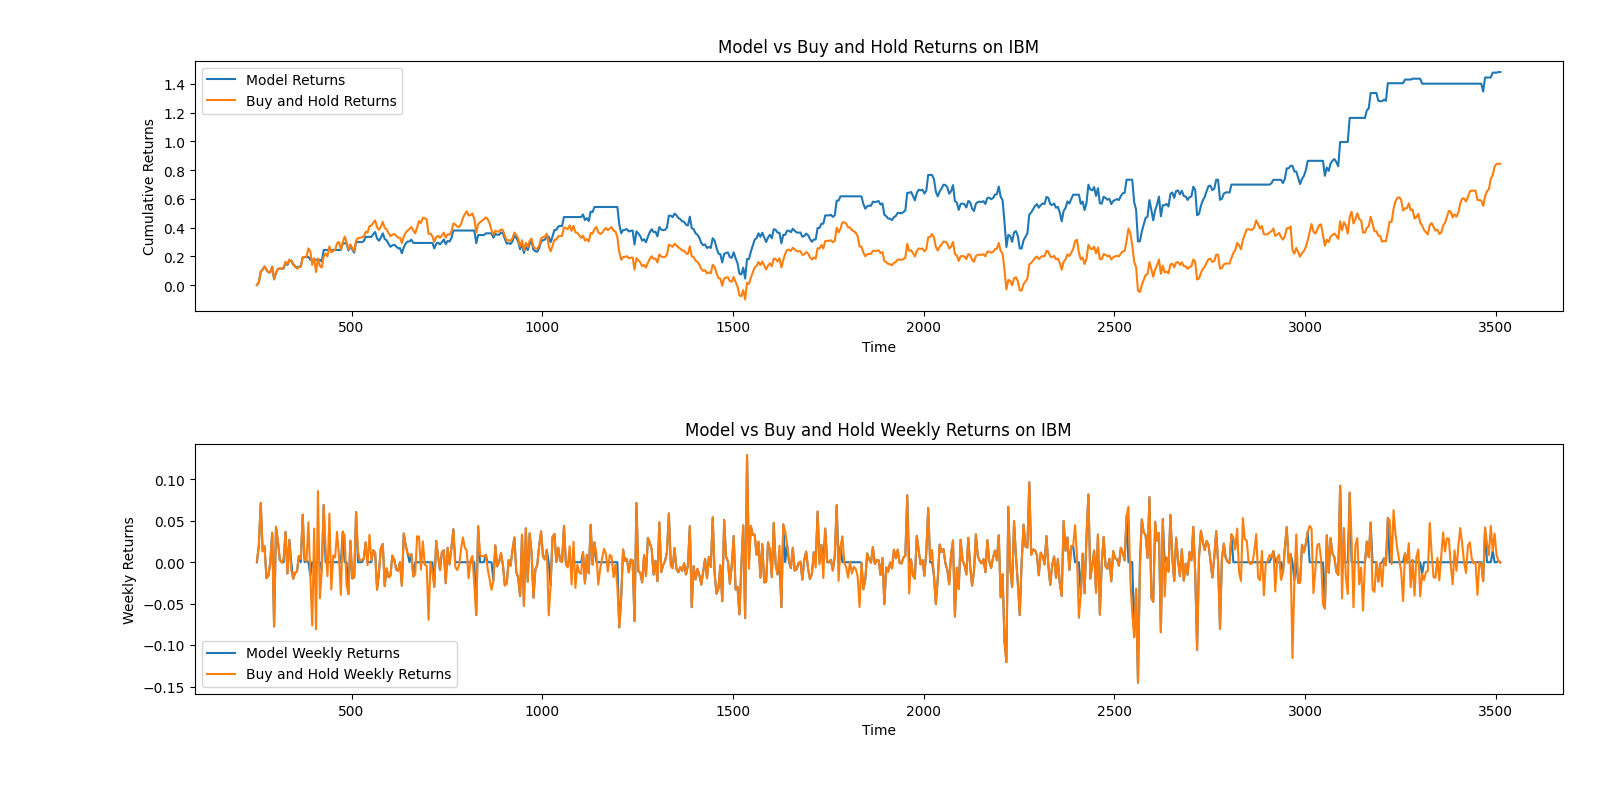
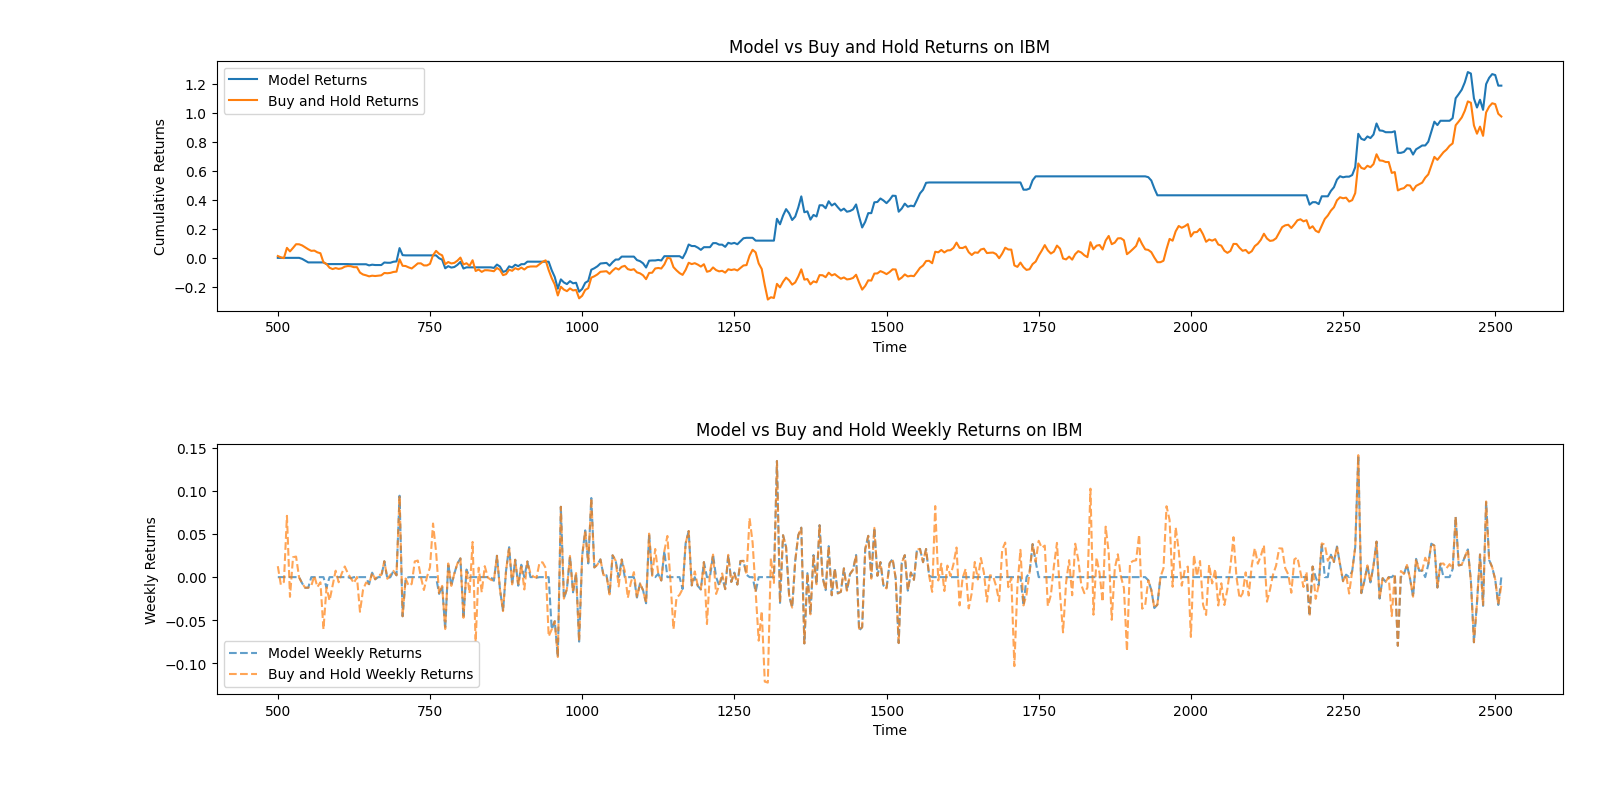
add vix features, graph stock prices, nan checking

diff --git a/random_forest.py b/random_forest.py
@@ -9,9 +9,12 @@ import matplotlib.pyplot as plt
 
 print(pd.__version__)
 
-ticker = "IBM"
+ticker = "BA"
 
-data = yf.download(ticker, start="2010-01-01", end="2025-01-01")
+data = yf.download(ticker, start="2015-01-01", end="2025-01-01")
+vix = yf.download("^VIX", start="2015-01-01", end="2025-01-01")
+vix = vix.reindex(data.index).fillna(method='ffill')
+
 print(data.head())
 
 close = data['Close'].squeeze()
@@ -25,15 +28,23 @@ data['ret_5'] = close.pct_change(5)
 data['ret_10'] = close.pct_change(10)
 data['ret_20'] = close.pct_change(20)
 data['ret_30'] = close.pct_change(30)
+
 data['ma_10'] = close.rolling(10).mean()
 data['ma_20'] = close.rolling(20).mean()
 data['ma_30'] = close.rolling(30).mean()
 data['ma_diff_10'] = close - data['ma_10']
 data['ma_diff_20'] = close - data['ma_20']
 data['ma_diff_30'] = close - data['ma_30']
+
 data['vol_10'] = data['ret_5'].rolling(10).std()
 data['vol_20'] = data['ret_10'].rolling(20).std()
 data['vol_30'] = data['ret_20'].rolling(30).std()
+
+data['vix_close'] = vix['Close'].values
+data['vix_ret_1'] = data['vix_close'].pct_change(1)
+data['vix_ret_5'] = data['vix_close'].pct_change(5)
+data['vix_ret_10'] = data['vix_close'].pct_change(10)
+
 data['weekly_return'] = close.pct_change(5).shift(-5)
 data['daily_return'] = close.pct_change(1).shift(-1)
 
@@ -43,12 +54,12 @@ data['target'] = (data['weekly_return'] > 0).astype(int)
 print(data.head())
 
 # inputs and labels
-features = ['ret_1', 'ret_5', 'ret_10', 'ret_20', 'ret_30', 'ma_10', 'ma_20', 'ma_30', 'ma_diff_10', 'ma_diff_20', 'ma_diff_30', 'vol_10', 'vol_20', 'vol_30']
+features = ['ret_1', 'ret_5', 'ret_10', 'ret_20', 'ret_30', 'ma_10', 'ma_20', 'ma_30', 'ma_diff_10', 'ma_diff_20', 'ma_diff_30', 'vol_10', 'vol_20', 'vol_30', 'vix_close', 'vix_ret_1', 'vix_ret_5', 'vix_ret_10']
 X = data[features].values
 y = data['target'].values.reshape(-1, 1)
 
 # train window, model always trains on the last year of data and tests/evals on the next week of data, then rolls forward by a week and repeats the process
-train_window = 252
+train_window = 500
 # test window is 5 days (1 week) bc using weekly returns as target
 test_window = 5
 
@@ -58,7 +69,7 @@ model_returns = []
 buy_and_hold_returns = []
 test_indices = []
 
-for end in range(train_window, len(X) - train_window - test_window, test_window):
+for end in range(train_window, len(X) - test_window, test_window):
     # end = start + train_window
 
     # create training windows and test windows
@@ -71,10 +82,18 @@ for end in range(train_window, len(X) - train_window - test_window, test_window)
     mask_train = ~np.isnan(X_train_window).any(axis=1) & ~np.isnan(y_train_window).any(axis=1)
     X_train = X_train_window[mask_train]
     y_train = y_train_window[mask_train]
+    if (~mask_train).any():
+        dropped_indices = np.where(~mask_train)[0]
+        # expect first 49 rows to be dropped due to 30-day rolling features, but if there are any NaNs after that, print a warning
+        if np.any(dropped_indices > 49):
+            print(f"NaN in training set after index 49 for window ending at {end}: {dropped_indices[dropped_indices > 49]}")
+
 
     mask_test = ~np.isnan(X_test_window).any(axis=1) & ~np.isnan(y_test_window).any(axis=1)
     X_test = X_test_window[mask_test]
     y_test = y_test_window[mask_test]
+    if (~mask_test).any():
+        print(f"Dropping {len(X_test_window) - np.sum(mask_test)} rows with NaNs from test data for window ending at index {end}")
 
     if len(X_train) == 0 or len(X_test) == 0:
         print("No valid test data for window ending at index", end)
@@ -95,7 +114,7 @@ for end in range(train_window, len(X) - train_window - test_window, test_window)
     predictions.append(pred[0])
     actuals.append(y_test[0][0])
 
-    print(f"Difference: {pred[0] - y_test[0][0]}, Confidence: {model.predict_proba(X_test)[0][1]:.4f}, Predicted: {pred[0]}, Actual: {y_test[0][0]}")
+    # print(f"Difference: {pred[0] - y_test[0][0]}, Confidence: {model.predict_proba(X_test)[0][1]:.4f}, Predicted: {pred[0]}, Actual: {y_test[0][0]}")
 
     model_returns.append(data['weekly_return'].values[end] if pred[0] == 1 else 0)
     buy_and_hold_returns.append(data['weekly_return'].values[end])
@@ -139,6 +158,13 @@ print("Model Sharpe:", model_sharpe)
 buy_and_hold_sharpe = (np.mean(buy_and_hold_returns) / np.std(buy_and_hold_returns)) * np.sqrt(52)
 print("B&H Sharpe:", buy_and_hold_sharpe)
 
+accuracies = predictions == actuals
+correct_model_returns = model_returns[accuracies]
+correct_buy_and_hold_returns = buy_and_hold_returns[accuracies]
+incorrect_model_returns = model_returns[~accuracies]
+incorrect_buy_and_hold_returns = buy_and_hold_returns[~accuracies]
+
+plt.figure()
 plt.subplot(2, 1, 1)
 plt.plot(test_indices, cumulative_model_returns, label='Model Returns')
 plt.plot(test_indices, cumulative_buy_and_hold_returns, label='Buy and Hold Returns')
@@ -147,9 +173,32 @@ plt.ylabel('Cumulative Returns')
 plt.title('Model vs Buy and Hold Returns on ' + ticker)
 plt.legend()
 
+# plot actual stock prices with green dots for correct predictions and red dots for incorrect predictions
 plt.subplot(2, 1, 2)
-plt.plot(test_indices, model_returns, label='Model Weekly Returns')
-plt.plot(test_indices, buy_and_hold_returns, label='Buy and Hold Weekly Returns')
+plt.plot(data.index, data['Close'], label='Stock Price')
+correct_indices = test_indices[accuracies]
+incorrect_indices = test_indices[~accuracies]
+plt.scatter(data.index[correct_indices], data['Close'].values[correct_indices], color='green', label='Correct Predictions', marker='o')
+plt.scatter(data.index[incorrect_indices], data['Close'].values[incorrect_indices], color='red', label='Incorrect Predictions', marker='x')
+plt.xlabel('Time')
+plt.ylabel('Stock Price')
+plt.title('Stock Price with Correct/Incorrect Predictions')
+plt.legend()
+
+plt.tight_layout()
+
+plt.figure()
+plt.subplot(2, 1, 1)
+plt.hist(correct_model_returns, bins=20, alpha=0.5, label='Model Returns (Correct Predictions)')
+plt.hist(incorrect_model_returns, bins=20, alpha=0.5, label='Model Returns (Incorrect Predictions)')
+plt.xlabel('Weekly Return')
+plt.ylabel('Frequency')
+plt.title('Returns When Model is Correct/Incorrect')
+plt.legend()
+
+plt.subplot(2, 1, 2)
+plt.plot(test_indices, model_returns, label='Model Weekly Returns', linestyle='--', alpha=0.7)
+plt.plot(test_indices, buy_and_hold_returns, label='Buy and Hold Weekly Returns', linestyle='--', alpha=0.7)
 plt.xlabel('Time')
 plt.ylabel('Weekly Returns')
 plt.title('Model vs Buy and Hold Weekly Returns on ' + ticker)
